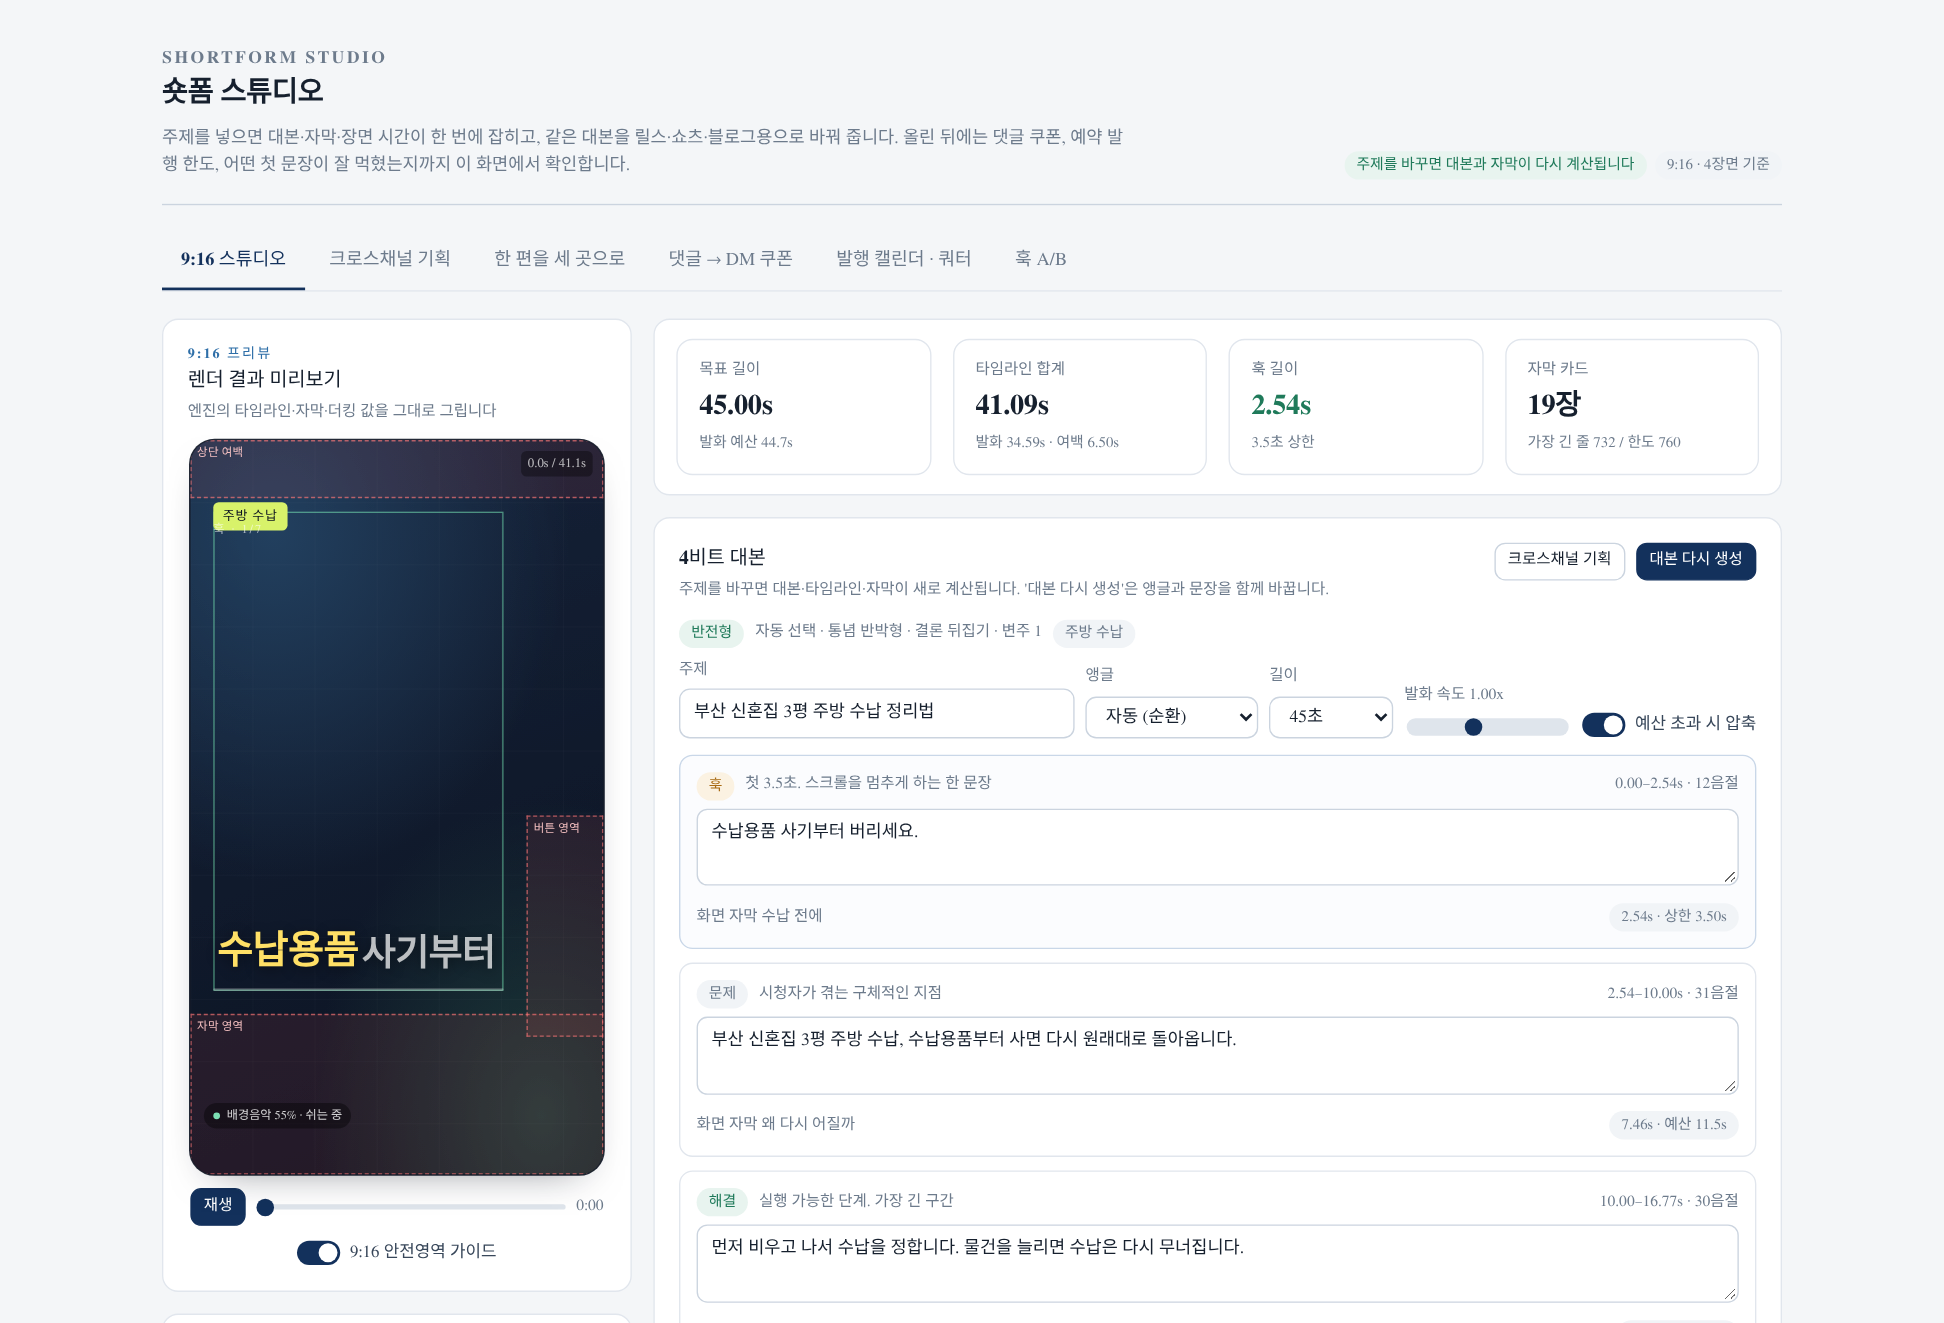
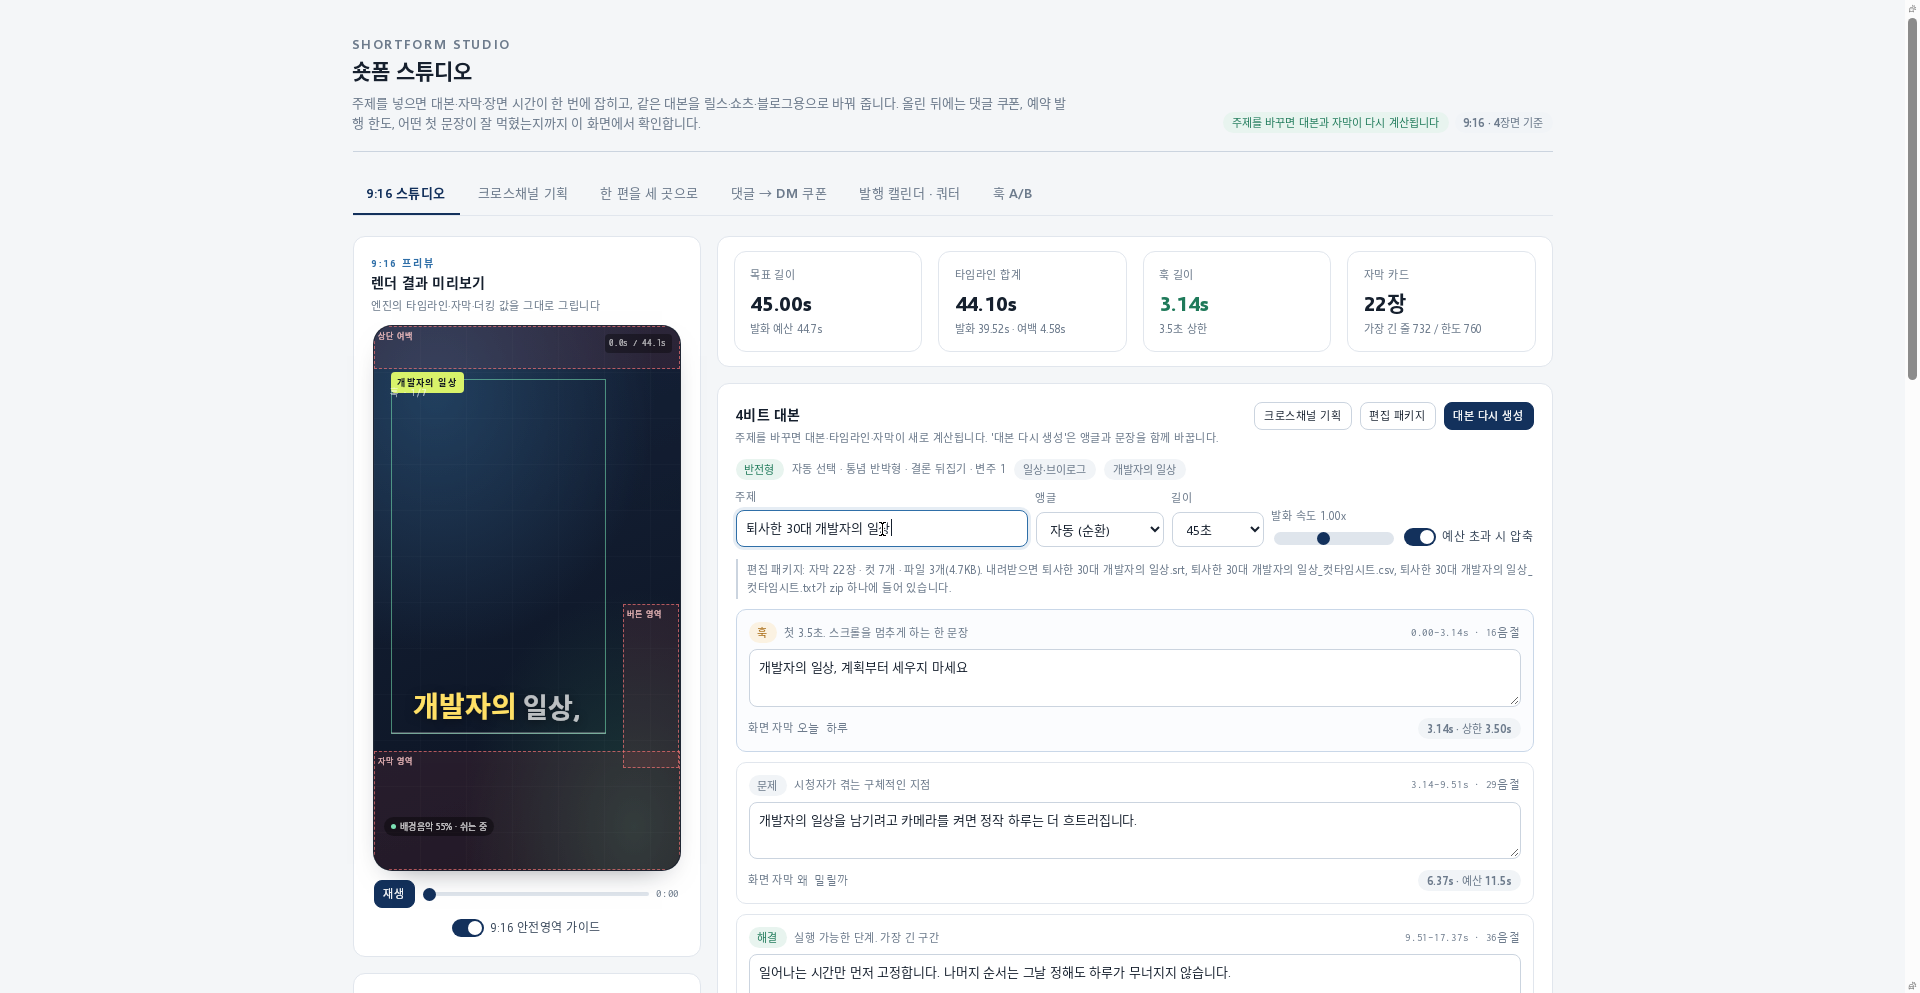
docs(preview): refresh the console screenshots from the live build

diff --git a/README.md b/README.md
@@ -671,7 +671,11 @@ npm run coverage  # 89.7% statements · 81.9% branches
 | 댓글 워커 | `php bin/coupon-worker.php --once` | ✅ `sent=1` · 1회용 토큰 발급·큐 행 연결 · `dispatch_attempts` SENT(dry_run, message id) · 큐 `DISPATCHED` |
 | 쿠폰 수령 | `GET /c/{token}` 두 번 호출 | ✅ 1회 `GRANTED`(3,000원) → 2회 `ALREADY_CLAIMED`, DB `claim_count=1` |
 | 정적 웹 콘솔 | `npm run build:web` → 로컬 서버 | ✅ 탭 6개 렌더·클릭 동작, 콘솔 오류 0 |
-| 라이브 배포 | <https://shye-seo.github.io/sns-shortform-automation/> | ✅ HTTP 200 |
+| 라이브 배포 | <https://shye-seo.github.io/sns-shortform-automation/> | ✅ HTTP 200 · 번들 `build.json` 최신 빌드 일치 확인 |
+| 대본 개편 확인(라이브) | 주제 `퇴사한 30대 개발자의 일상` 입력 | ✅ 도메인 `일상·브이로그`(근거 일상+9) · 훅 3.14s · 글쓰기 템플릿 문장 0건 |
+| 편집 패키지(라이브) | 「편집 패키지」 클릭 → 내려받은 zip 검사 | ✅ 3파일 4.8KB · `unzip -t` 정상 · SRT/MD 타임시트 한글 파일명 유지 |
+| 발행 전 점검(라이브) | 주제를 `부작용 없는 다이어트 보장 크림`으로 바꿈 | ✅ 차단 1(`부작용 없음 단정`) · 주의 1(`결과 보장`) · 발행 버튼 disabled |
+| 팔로워 전용(라이브) | 팔로워만 ON + 10초 적용 후 팔로워/비팔로워 댓글 | ✅ 팔로워 1건 DM · 비팔로워 1건 지나감(`팔로워가 확인되지 않아…`) |
 
 ---
 
